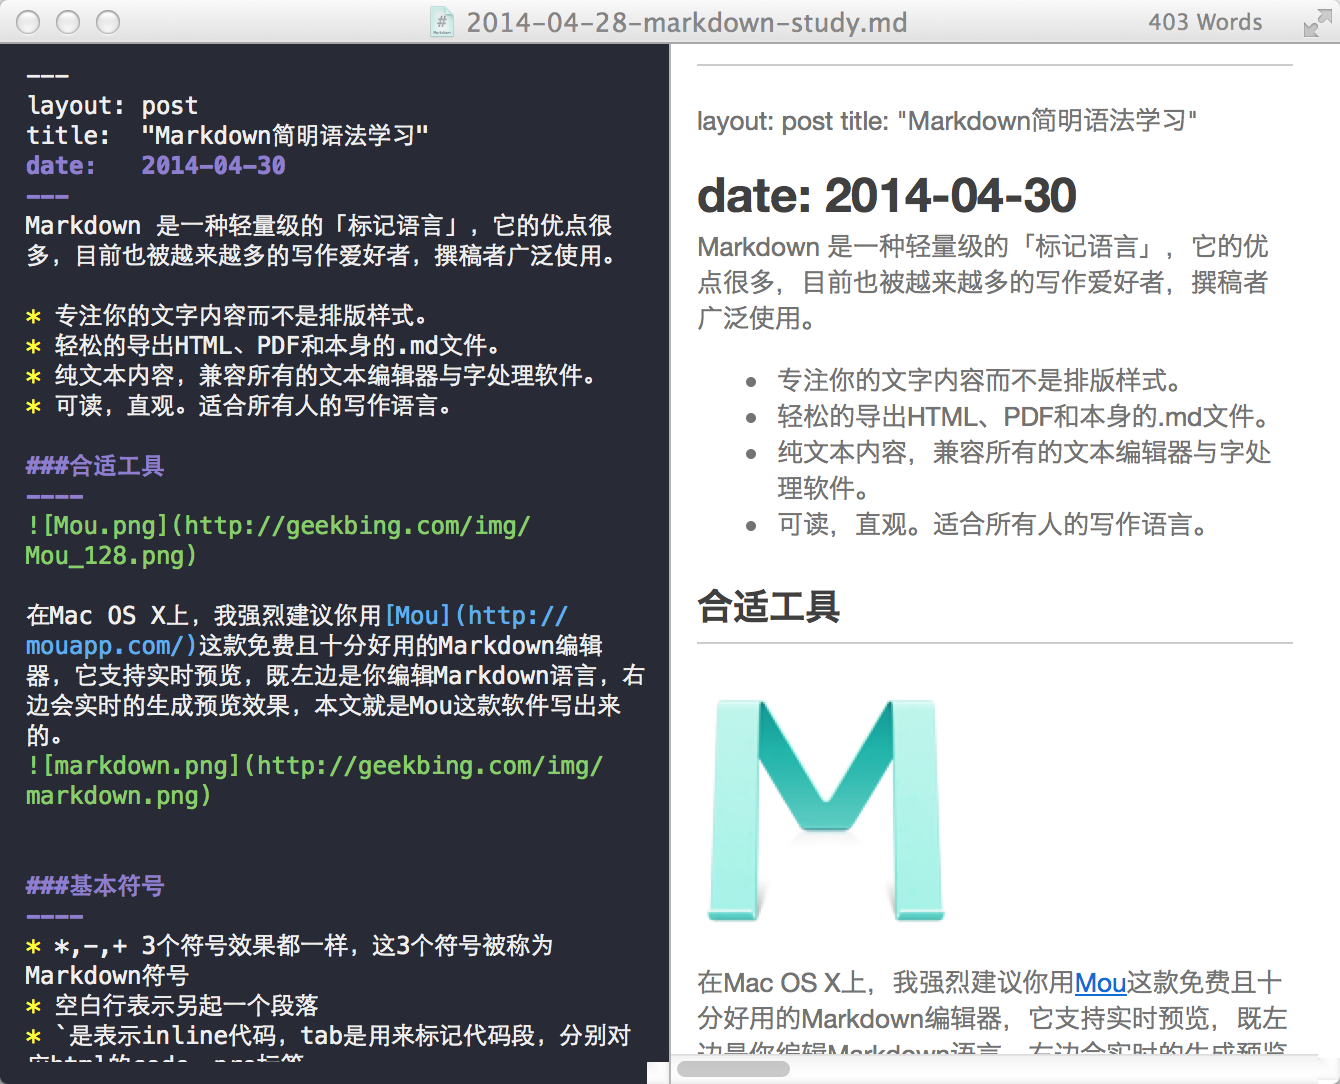
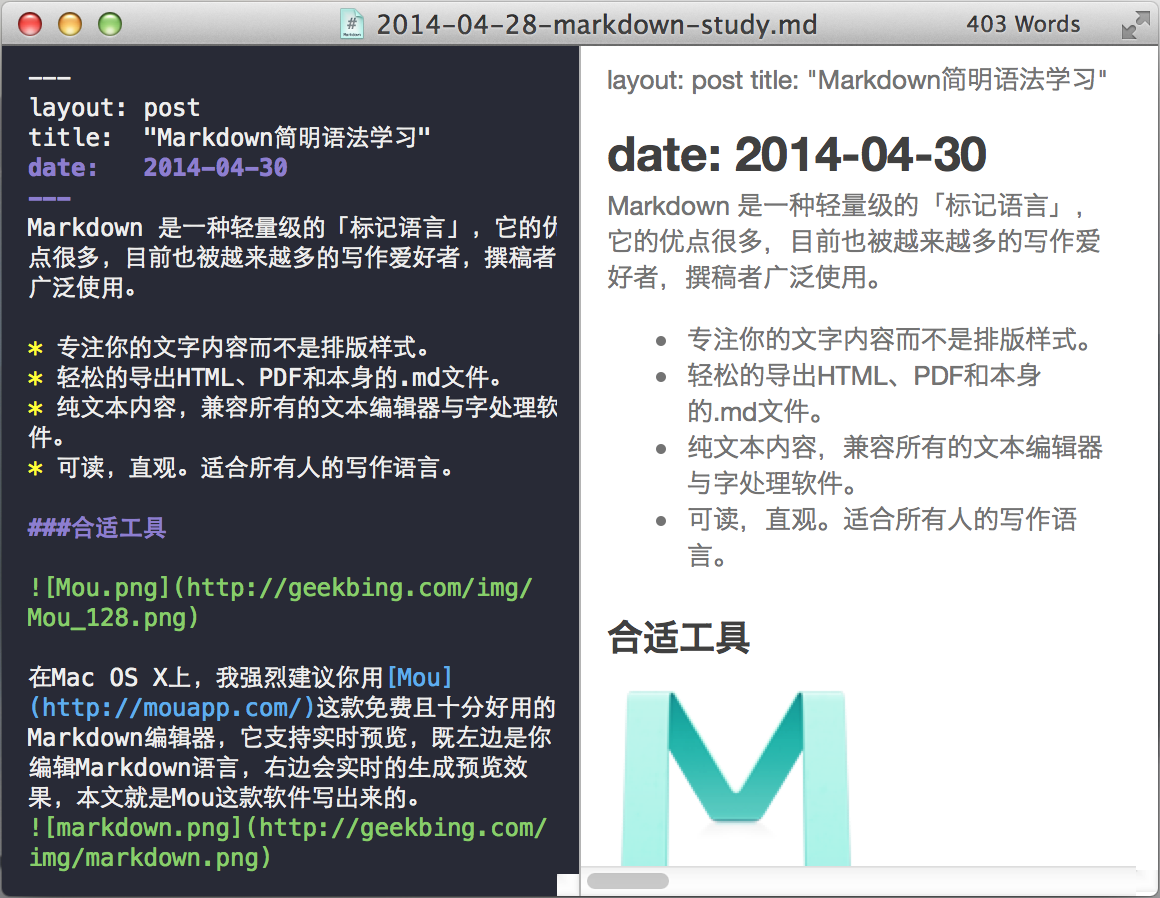
1
1

Changed region(s): [[0.0, 0.0, 1.0, 1.0]]

diff --git a/_site/2014/04/30/markdown-study.html b/_site/2014/04/30/markdown-study.html
@@ -61,8 +61,6 @@
 
 <h3>合适工具</h3>
 
-<hr>
-
 <p><img src="http://geekbing.com/img/Mou_128.png" alt="Mou.png"></p>
 
 <p>在Mac OS X上，我强烈建议你用<a href="http://mouapp.com/">Mou</a>这款免费且十分好用的Markdown编辑器，它支持实时预览，既左边是你编辑Markdown语言，右边会实时的生成预览效果，本文就是Mou这款软件写出来的。
